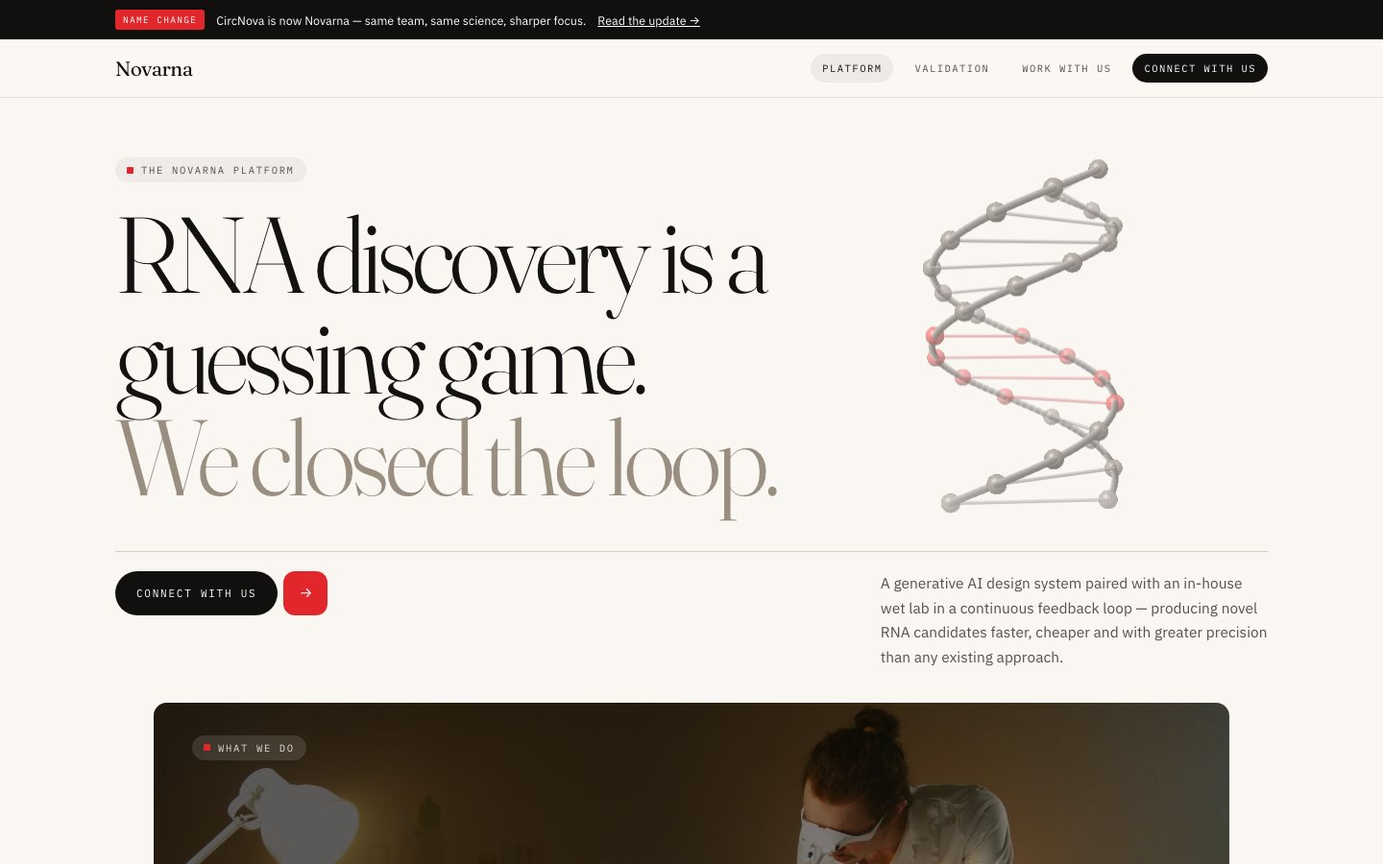
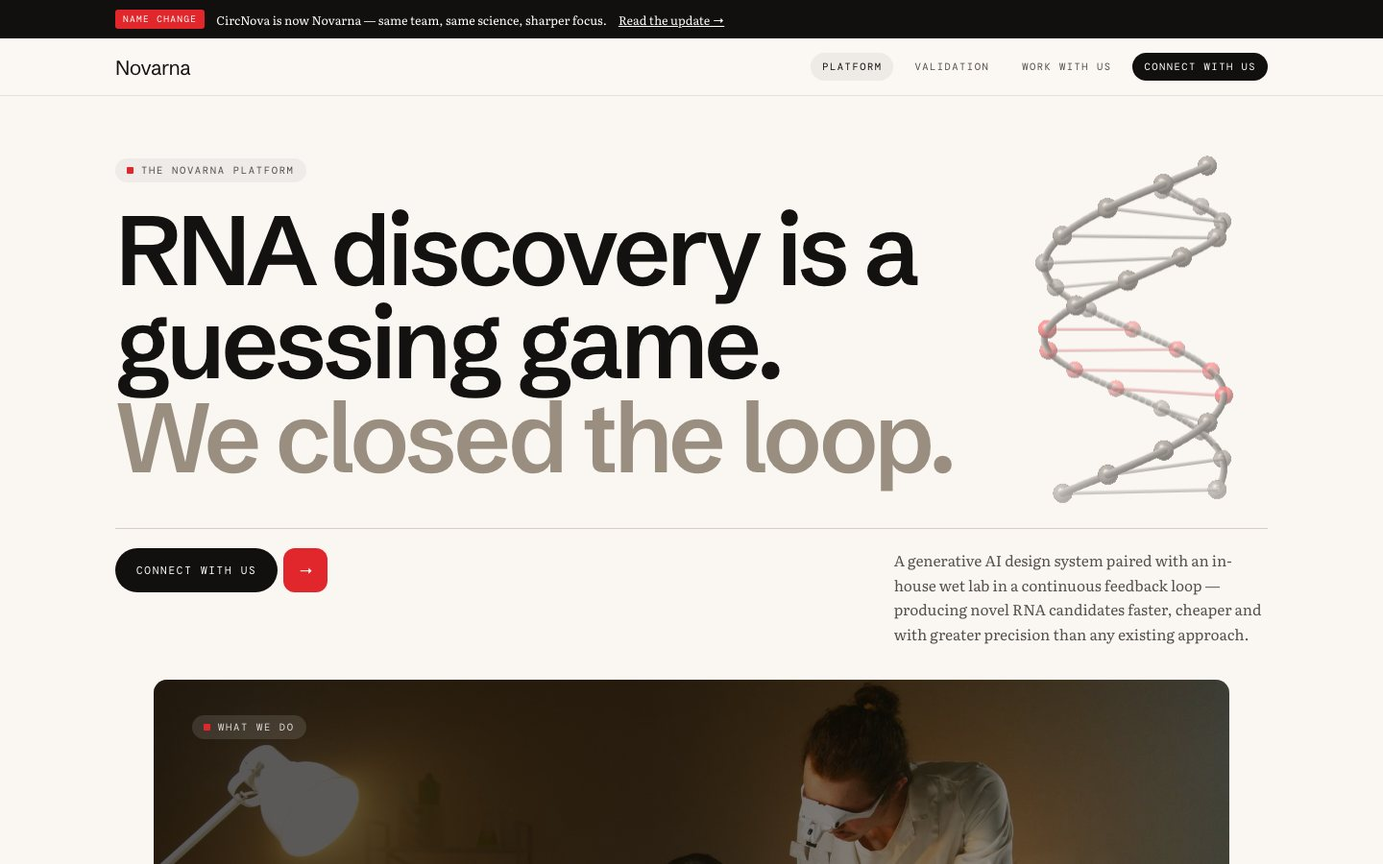
Novarna: get off the template typeface, and say so to the client
Daniel: "looks like you used the same typography that everyone uses for AI
created works." He is right, and checking it made the point sharper than he put
it.

circnova.com genuinely loads Fraunces + Work Sans + JetBrains Mono -- I verified
the computed font-family on their live site rather than trusting my note. So I
had kept Fraunces on the grounds that it was THEIRS. But that stack is itself
the generated-template signature: the design press names "Fraunces / Inter"
explicitly as a template pairing, Inter as the documented AI-slop face ("purple
gradients and Inter"), and Space Grotesk / Space Mono the same way. Being
faithful to the client inherited the problem instead of solving it. A direction
study that preserves the tell is worth less than one that names it.

So: Schibsted Grotesk display, Literata body, DM Mono labels.

The move that matters is dropping the display serif entirely, because that is
where the trap lives -- and because the actual peer set does. IntegratedBio and
the credible AI-bio sites set display in grotesques, not decorative serifs.
Schibsted Grotesk is an editorial grotesque drawn for a Norwegian news group and
has real character in the a, g and R exactly where Inter is deliberately
neutral.

Literata as the BODY face is the uncommon part and the one I would argue for
hardest. A scholarly reading serif set as running text under a sans display
inverts the usual arrangement, and it reads as journal rather than startup --
[…]

diff --git a/concepts/novarna/index.html b/concepts/novarna/index.html
@@ -12,7 +12,7 @@
 <link rel="canonical" href="https://novarna.ai/">
 <link rel="preconnect" href="https://fonts.googleapis.com">
 <link rel="preconnect" href="https://fonts.gstatic.com" crossorigin>
-<link href="https://fonts.googleapis.com/css2?family=Fraunces:ital,opsz,wght@0,9..144,300;0,9..144,400;0,9..144,500;1,9..144,300&family=IBM+Plex+Sans:wght@400;450;500;600&family=IBM+Plex+Mono:wght@400;450;500&display=swap" rel="stylesheet">
+<link href="https://fonts.googleapis.com/css2?family=Schibsted+Grotesk:ital,wght@0,400..900;1,400..700&family=Literata:ital,opsz,wght@0,7..72,300..600;1,7..72,300..500&family=DM+Mono:ital,wght@0,300;0,400;0,500;1,400&display=swap" rel="stylesheet">
 <style>
 /* ---------------------------------------------------------------------------
    Novarna — direction study by LOVELEEDAY Studios. Fourth direction, and the
@@ -49,18 +49,18 @@
 *,*::before,*::after{box-sizing:border-box}
 html{-webkit-text-size-adjust:100%;scroll-behavior:smooth}
 body{margin:0;background:var(--bone);color:var(--ink);overflow-x:hidden;
-  font-family:"IBM Plex Sans",ui-sans-serif,system-ui,sans-serif;
+  font-family:"Literata",Georgia,serif;
   -webkit-font-smoothing:antialiased;-moz-osx-font-smoothing:grayscale}
 img{display:block;max-width:100%;height:auto}
 a{color:inherit}
-h1,h2,h3{margin:0;font-family:"Fraunces",Georgia,serif;font-weight:300;letter-spacing:-.025em}
+h1,h2,h3{margin:0;font-family:"Schibsted Grotesk",ui-sans-serif,system-ui,sans-serif;font-weight:500;letter-spacing:-.038em}
 .wrap{max-width:1280px;margin:0 auto;padding:0 clamp(20px,3.4vw,40px)}
 .tnum{font-variant-numeric:tabular-nums}
 :focus-visible{outline:2px solid var(--red);outline-offset:3px}
 
 /* the pill label with its solid square — IntegratedBio's tell */
 .pill{display:inline-flex;align-items:center;gap:8px;padding:6px 12px;border-radius:999px;
-  background:rgba(20,18,16,.05);font-family:"IBM Plex Mono",ui-monospace,monospace;
+  background:rgba(20,18,16,.05);font-family:"DM Mono",ui-monospace,monospace;
   font-size:10.5px;letter-spacing:.16em;text-transform:uppercase;color:var(--mid)}
 .pill::before{content:"";width:7px;height:7px;background:var(--red);border-radius:1px}
 .pill.on-dark{background:rgba(255,255,255,.12);color:rgba(255,255,255,.82)}
@@ -69,7 +69,7 @@ h1,h2,h3{margin:0;font-family:"Fraunces",Georgia,serif;font-weight:300;letter-sp
 .cta{display:inline-flex;align-items:stretch;gap:6px}
 .cta > a:first-child{display:inline-flex;align-items:center;padding:0 22px;min-height:46px;
   background:var(--deep);color:#fff;border-radius:999px;text-decoration:none;
-  font-family:"IBM Plex Mono",ui-monospace,monospace;font-size:11px;letter-spacing:.16em;text-transform:uppercase}
+  font-family:"DM Mono",ui-monospace,monospace;font-size:11px;letter-spacing:.16em;text-transform:uppercase}
 .cta > a:first-child:hover{background:#2A2420}
 .cta .sq{display:inline-grid;place-items:center;width:46px;min-height:46px;background:var(--red);
   color:#fff;border-radius:12px;text-decoration:none;font-size:15px}
@@ -83,16 +83,16 @@ h1,h2,h3{margin:0;font-family:"Fraunces",Georgia,serif;font-weight:300;letter-sp
 .bar{background:var(--deep);color:#fff;font-size:12.5px}
 .bar-in{max-width:1280px;margin:0 auto;padding:10px clamp(20px,3.4vw,40px);display:flex;gap:12px;
   align-items:center;flex-wrap:wrap}
-.bar .tag{font-family:"IBM Plex Mono",ui-monospace,monospace;font-size:9.5px;letter-spacing:.14em;
+.bar .tag{font-family:"DM Mono",ui-monospace,monospace;font-size:9.5px;letter-spacing:.14em;
   text-transform:uppercase;background:var(--red);padding:4px 8px;border-radius:3px}
 .bar a{color:#fff}
 .nav{position:sticky;top:0;z-index:40;background:rgba(250,247,243,.88);
   backdrop-filter:saturate(1.4) blur(10px);border-bottom:1px solid var(--line)}
 .nav-in{max-width:1280px;margin:0 auto;padding:15px clamp(20px,3.4vw,40px);
   display:flex;align-items:center;gap:24px}
-.brand{font-family:"Fraunces",Georgia,serif;font-size:21px;font-weight:400;letter-spacing:-.025em}
+.brand{font-family:"Schibsted Grotesk",ui-sans-serif,system-ui,sans-serif;font-size:21px;font-weight:400;letter-spacing:-.025em}
 .navlinks{margin-left:auto;display:flex;gap:10px;align-items:center;
-  font-family:"IBM Plex Mono",ui-monospace,monospace;font-size:10.5px;letter-spacing:.14em;text-transform:uppercase}
+  font-family:"DM Mono",ui-monospace,monospace;font-size:10.5px;letter-spacing:.14em;text-transform:uppercase}
 .navlinks a{text-decoration:none;padding:8px 12px;border-radius:999px;color:var(--mid)}
 .navlinks a:hover{background:rgba(20,18,16,.05);color:var(--ink)}
 .navlinks a.on{background:rgba(20,18,16,.06);color:var(--ink)}
@@ -100,7 +100,7 @@ h1,h2,h3{margin:0;font-family:"Fraunces",Georgia,serif;font-weight:300;letter-sp
 
 /* 1 · HERO — enormous two-tone type, copy demoted under a ruled shelf */
 .hero{padding:clamp(40px,4.4vw,62px) 0 0}
-.hero h1{font-size:clamp(2.7rem,8.4vw,7rem);line-height:.94;letter-spacing:-.042em;max-width:15ch}
+.hero h1{font-size:clamp(2.6rem,7.8vw,6.4rem);line-height:.95;letter-spacing:-.045em;max-width:15ch;font-weight:600}
 .hero h1 .t2{color:var(--tint);display:block}
 .shelf{margin-top:clamp(32px,3.4vw,46px);padding-top:20px;border-top:1px solid var(--line-2);
   display:grid;grid-template-columns:auto minmax(0,1fr) minmax(0,42ch);gap:clamp(18px,4vw,48px);
@@ -113,7 +113,7 @@ h1,h2,h3{margin:0;font-family:"Fraunces",Georgia,serif;font-weight:300;letter-sp
 .hero-media .cap{position:absolute;left:clamp(20px,3vw,40px);top:clamp(20px,3vw,34px)}
 .hero-media figcaption{position:absolute;left:clamp(20px,3vw,40px);right:clamp(20px,3vw,40px);
   bottom:clamp(20px,3vw,34px);color:#fff;font-size:clamp(1.15rem,2.4vw,1.95rem);line-height:1.22;
-  font-family:"Fraunces",Georgia,serif;font-weight:300;max-width:24ch;letter-spacing:-.02em}
+  font-family:"Schibsted Grotesk",ui-sans-serif,system-ui,sans-serif;font-weight:300;max-width:24ch;letter-spacing:-.02em}
 .hero-media figcaption em{font-style:italic;color:rgba(255,255,255,.62)}
 
 /* ── MOTION ───────────────────────────────────────────────────
@@ -154,7 +154,7 @@ h1,h2,h3{margin:0;font-family:"Fraunces",Georgia,serif;font-weight:300;letter-sp
   background:var(--paper);padding:11px 0;-webkit-mask-image:linear-gradient(90deg,transparent,#000 9%,#000 91%,transparent);
   mask-image:linear-gradient(90deg,transparent,#000 9%,#000 91%,transparent)}
 .ticker span{display:inline-block;white-space:nowrap;
-  font-family:"IBM Plex Mono",ui-monospace,monospace;font-size:12px;letter-spacing:.42em;
+  font-family:"DM Mono",ui-monospace,monospace;font-size:12px;letter-spacing:.42em;
   color:var(--soft);animation:stream 42s linear infinite;will-change:transform}
 .ticker b{color:var(--red);font-weight:450}
 @keyframes stream{from{transform:translateX(0)}to{transform:translateX(-50%)}}
@@ -166,7 +166,7 @@ h1,h2,h3{margin:0;font-family:"Fraunces",Georgia,serif;font-weight:300;letter-sp
 
 .assay-h{display:flex;justify-content:space-between;gap:12px;padding:0 0 12px;
   border-bottom:1px solid rgba(255,255,255,.14);
-  font-family:"IBM Plex Mono",ui-monospace,monospace;font-size:10.5px;
+  font-family:"DM Mono",ui-monospace,monospace;font-size:10.5px;
   letter-spacing:.15em;text-transform:uppercase;color:rgba(255,255,255,.54)}
 .live-dot{display:inline-block;width:6px;height:6px;border-radius:50%;
   background:var(--red);margin-right:7px;vertical-align:middle;
@@ -187,8 +187,8 @@ h1,h2,h3{margin:0;font-family:"Fraunces",Georgia,serif;font-weight:300;letter-sp
 .nums-grid{margin-top:40px;display:grid;grid-template-columns:repeat(3,1fr);gap:0}
 .n1{padding:0 clamp(16px,2.4vw,34px);border-left:1px solid var(--line-2)}
 .n1:first-child{padding-left:0;border-left:0}
-.n1 .k{font-family:"Fraunces",Georgia,serif;font-size:clamp(3rem,7.4vw,6.4rem);line-height:1;
-  letter-spacing:-.05em;color:var(--red);font-weight:300}
+.n1 .k{font-family:"Schibsted Grotesk",ui-sans-serif,system-ui,sans-serif;font-size:clamp(3rem,7.4vw,6.4rem);line-height:1;
+  letter-spacing:-.055em;color:var(--red);font-weight:500}
 .n1 .l{margin-top:14px;font-size:14.5px;font-weight:600}
 .n1 .s{margin-top:5px;font-size:13px;line-height:1.55;color:var(--soft);max-width:26ch}
 
@@ -203,14 +203,14 @@ h1,h2,h3{margin:0;font-family:"Fraunces",Georgia,serif;font-weight:300;letter-sp
   gap:clamp(14px,3vw,42px);align-items:baseline;padding:clamp(20px,2.6vw,30px) 0;
   border-top:1px solid var(--line-2)}
 .row:last-of-type{border-bottom:1px solid var(--line-2)}
-.row .o{font-family:"Fraunces",Georgia,serif;font-size:clamp(1.5rem,2.8vw,2.2rem);
+.row .o{font-family:"Schibsted Grotesk",ui-sans-serif,system-ui,sans-serif;font-size:clamp(1.5rem,2.8vw,2.2rem);
   line-height:1;color:var(--tint);font-weight:300;font-variant-numeric:tabular-nums}
 .row:last-of-type .o{color:var(--red)}
 .row h3{font-size:clamp(1.25rem,2.4vw,1.85rem);letter-spacing:-.02em;font-weight:400}
 .row p{margin:0;font-size:14.5px;line-height:1.66;color:var(--mid)}
 .moat{margin-top:clamp(28px,4vw,44px);display:grid;
   grid-template-columns:clamp(58px,6vw,96px) minmax(0,58ch);gap:clamp(14px,3vw,42px)}
-.o-lab{font-family:"IBM Plex Mono",ui-monospace,monospace;font-size:10px;letter-spacing:.16em;
+.o-lab{font-family:"DM Mono",ui-monospace,monospace;font-size:10px;letter-spacing:.16em;
   text-transform:uppercase;color:var(--red-d);white-space:nowrap;padding-top:5px}
 .moat p{margin:0;font-size:15.5px;line-height:1.72;color:var(--mid)}
 .moat b{color:var(--ink);font-weight:500}
@@ -242,7 +242,7 @@ h1,h2,h3{margin:0;font-family:"Fraunces",Georgia,serif;font-weight:300;letter-sp
 .as{display:grid;grid-template-columns:44px minmax(0,1fr) auto;gap:18px;align-items:baseline;
   padding:17px 0;border-top:1px solid rgba(255,255,255,.14);font-size:15px}
 .as:last-child{border-bottom:1px solid rgba(255,255,255,.14)}
-.as .m{font-family:"IBM Plex Mono",ui-monospace,monospace;font-size:11.5px;color:rgba(255,255,255,.38)}
+.as .m{font-family:"DM Mono",ui-monospace,monospace;font-size:11.5px;color:rgba(255,255,255,.38)}
 .as .v{font-weight:600;white-space:nowrap;color:#fff}
 .as .v.win{color:#FF6B5A}
 .val .note{margin:clamp(26px,4vw,38px) 0 0;font-size:12.5px;line-height:1.65;
@@ -255,7 +255,7 @@ h1,h2,h3{margin:0;font-family:"Fraunces",Georgia,serif;font-weight:300;letter-sp
 .state-in .over{position:absolute;inset:0;background:linear-gradient(90deg,rgba(12,6,4,.58),rgba(12,6,4,.16))}
 .state-in .cap{position:absolute;left:clamp(20px,3vw,40px);top:clamp(20px,3vw,34px)}
 .state-in blockquote{position:absolute;margin:0;left:clamp(20px,3vw,40px);right:clamp(20px,3vw,40px);
-  bottom:clamp(22px,3.4vw,40px);color:#fff;font-family:"Fraunces",Georgia,serif;font-weight:300;
+  bottom:clamp(22px,3.4vw,40px);color:#fff;font-family:"Schibsted Grotesk",ui-sans-serif,system-ui,sans-serif;font-weight:300;
   font-size:clamp(1.3rem,2.9vw,2.4rem);line-height:1.2;max-width:26ch;letter-spacing:-.02em}
 .state-in blockquote em{font-style:italic;color:rgba(255,255,255,.6)}
 
@@ -270,7 +270,7 @@ h1,h2,h3{margin:0;font-family:"Fraunces",Georgia,serif;font-weight:300;letter-sp
   gap:clamp(14px,3vw,42px);align-items:baseline;padding:clamp(20px,2.4vw,28px) 0;
   border-top:1px solid var(--line-2)}
 .tier:last-of-type{border-bottom:1px solid var(--line-2)}
-.tier .o{font-family:"IBM Plex Mono",ui-monospace,monospace;font-size:11px;color:var(--soft);letter-spacing:.14em}
+.tier .o{font-family:"DM Mono",ui-monospace,monospace;font-size:11px;color:var(--soft);letter-spacing:.14em}
 .tier h3{font-size:clamp(1.05rem,1.9vw,1.4rem);font-weight:400;letter-spacing:-.015em}
 .tier p{margin:0;font-size:14.5px;line-height:1.65;color:var(--mid)}
 
@@ -284,15 +284,15 @@ h1,h2,h3{margin:0;font-family:"Fraunces",Georgia,serif;font-weight:300;letter-sp
   align-items:start}
 .foot-top h2{font-size:clamp(1.35rem,2.7vw,2.1rem);line-height:1.16;color:#fff;max-width:22ch}
 .foot-nav{display:grid;gap:9px;font-size:13.5px}
-.foot-nav .h{font-family:"IBM Plex Mono",ui-monospace,monospace;font-size:10px;letter-spacing:.17em;
+.foot-nav .h{font-family:"DM Mono",ui-monospace,monospace;font-size:10px;letter-spacing:.17em;
   text-transform:uppercase;color:rgba(255,255,255,.5);margin-bottom:5px}
 .foot-nav a{color:rgba(255,255,255,.88);text-decoration:none}
 .foot-nav a:hover{text-decoration:underline}
-.wordmark{margin:clamp(38px,6vw,72px) 0 0;font-family:"Fraunces",Georgia,serif;font-weight:300;
+.wordmark{margin:clamp(38px,6vw,72px) 0 0;font-family:"Schibsted Grotesk",ui-sans-serif,system-ui,sans-serif;font-weight:300;
   font-size:clamp(3.4rem,15.6vw,13rem);line-height:.82;letter-spacing:-.055em;color:#fff;
   display:block;user-select:none}
 .foot-legal{position:relative;display:flex;flex-wrap:wrap;gap:12px;justify-content:space-between;
-  padding:22px clamp(20px,3.4vw,44px) 26px;font-family:"IBM Plex Mono",ui-monospace,monospace;font-size:10px;
+  padding:22px clamp(20px,3.4vw,44px) 26px;font-family:"DM Mono",ui-monospace,monospace;font-size:10px;
   letter-spacing:.13em;text-transform:uppercase;color:rgba(255,255,255,.55)}
 
 @media (max-width:980px){
@@ -644,8 +644,8 @@ h1,h2,h3{margin:0;font-family:"Fraunces",Georgia,serif;font-weight:300;letter-sp
       var turns = BP * TWIST / (2 * Math.PI);
       rise = (H * 0.70) / BP;
       R    = rise * BP / turns * (23 / 30.8) / 2;   // hold the true 23:30.8 ratio
-      R    = Math.min(R, W * 0.19);
-      ox   = W * 0.74; oy = H / 2;
+      R    = Math.min(R, W * 0.155);
+      ox   = W * 0.82; oy = H / 2;
       CAM  = R * 9.5;                                 // gentle perspective
       computeAO();
       if (!scat.length) for (var i = 0; i < BP * 2; i++)
@@ -774,7 +774,7 @@ h1,h2,h3{margin:0;font-family:"Fraunces",Georgia,serif;font-weight:300;letter-sp
           if (depth > 0.5 && it.k > 0.9) {
             ctx.globalAlpha = (depth - 0.5) / 0.5 * 0.9;
             ctx.fillStyle = 'rgba(250,247,243,.95)';
-            ctx.font = '500 ' + (8.6 * it.p.s).toFixed(1) + 'px "IBM Plex Mono", ui-monospace, monospace';
+            ctx.font = '500 ' + (8.6 * it.p.s).toFixed(1) + 'px "DM Mono", ui-monospace, monospace';
             ctx.textAlign = 'center'; ctx.textBaseline = 'middle';
             ctx.fillText(it.ch, it.p.x, it.p.y);
           }

diff --git a/public/portal/novarna/index.html b/public/portal/novarna/index.html
@@ -12,7 +12,7 @@
 <link rel="canonical" href="https://novarna.ai/">
 <link rel="preconnect" href="https://fonts.googleapis.com">
 <link rel="preconnect" href="https://fonts.gstatic.com" crossorigin>
-<link href="https://fonts.googleapis.com/css2?family=Fraunces:ital,opsz,wght@0,9..144,300;0,9..144,400;0,9..144,500;1,9..144,300&family=IBM+Plex+Sans:wght@400;450;500;600&family=IBM+Plex+Mono:wght@400;450;500&display=swap" rel="stylesheet">
+<link href="https://fonts.googleapis.com/css2?family=Schibsted+Grotesk:ital,wght@0,400..900;1,400..700&family=Literata:ital,opsz,wght@0,7..72,300..600;1,7..72,300..500&family=DM+Mono:ital,wght@0,300;0,400;0,500;1,400&display=swap" rel="stylesheet">
 <style>
 /* ---------------------------------------------------------------------------
    Novarna — direction study by LOVELEEDAY Studios. Fourth direction, and the
@@ -49,18 +49,18 @@
 *,*::before,*::after{box-sizing:border-box}
 html{-webkit-text-size-adjust:100%;scroll-behavior:smooth}
 body{margin:0;background:var(--bone);color:var(--ink);overflow-x:hidden;
-  font-family:"IBM Plex Sans",ui-sans-serif,system-ui,sans-serif;
+  font-family:"Literata",Georgia,serif;
   -webkit-font-smoothing:antialiased;-moz-osx-font-smoothing:grayscale}
 img{display:block;max-width:100%;height:auto}
 a{color:inherit}
-h1,h2,h3{margin:0;font-family:"Fraunces",Georgia,serif;font-weight:300;letter-spacing:-.025em}
+h1,h2,h3{margin:0;font-family:"Schibsted Grotesk",ui-sans-serif,system-ui,sans-serif;font-weight:500;letter-spacing:-.038em}
 .wrap{max-width:1280px;margin:0 auto;padding:0 clamp(20px,3.4vw,40px)}
 .tnum{font-variant-numeric:tabular-nums}
 :focus-visible{outline:2px solid var(--red);outline-offset:3px}
 
 /* the pill label with its solid square — IntegratedBio's tell */
 .pill{display:inline-flex;align-items:center;gap:8px;padding:6px 12px;border-radius:999px;
-  background:rgba(20,18,16,.05);font-family:"IBM Plex Mono",ui-monospace,monospace;
+  background:rgba(20,18,16,.05);font-family:"DM Mono",ui-monospace,monospace;
   font-size:10.5px;letter-spacing:.16em;text-transform:uppercase;color:var(--mid)}
 .pill::before{content:"";width:7px;height:7px;background:var(--red);border-radius:1px}
 .pill.on-dark{background:rgba(255,255,255,.12);color:rgba(255,255,255,.82)}
@@ -69,7 +69,7 @@ h1,h2,h3{margin:0;font-family:"Fraunces",Georgia,serif;font-weight:300;letter-sp
 .cta{display:inline-flex;align-items:stretch;gap:6px}
 .cta > a:first-child{display:inline-flex;align-items:center;padding:0 22px;min-height:46px;
   background:var(--deep);color:#fff;border-radius:999px;text-decoration:none;
-  font-family:"IBM Plex Mono",ui-monospace,monospace;font-size:11px;letter-spacing:.16em;text-transform:uppercase}
+  font-family:"DM Mono",ui-monospace,monospace;font-size:11px;letter-spacing:.16em;text-transform:uppercase}
 .cta > a:first-child:hover{background:#2A2420}
 .cta .sq{display:inline-grid;place-items:center;width:46px;min-height:46px;background:var(--red);
   color:#fff;border-radius:12px;text-decoration:none;font-size:15px}
@@ -83,16 +83,16 @@ h1,h2,h3{margin:0;font-family:"Fraunces",Georgia,serif;font-weight:300;letter-sp
 .bar{background:var(--deep);color:#fff;font-size:12.5px}
 .bar-in{max-width:1280px;margin:0 auto;padding:10px clamp(20px,3.4vw,40px);display:flex;gap:12px;
   align-items:center;flex-wrap:wrap}
-.bar .tag{font-family:"IBM Plex Mono",ui-monospace,monospace;font-size:9.5px;letter-spacing:.14em;
+.bar .tag{font-family:"DM Mono",ui-monospace,monospace;font-size:9.5px;letter-spacing:.14em;
   text-transform:uppercase;background:var(--red);padding:4px 8px;border-radius:3px}
 .bar a{color:#fff}
 .nav{position:sticky;top:0;z-index:40;background:rgba(250,247,243,.88);
   backdrop-filter:saturate(1.4) blur(10px);border-bottom:1px solid var(--line)}
 .nav-in{max-width:1280px;margin:0 auto;padding:15px clamp(20px,3.4vw,40px);
   display:flex;align-items:center;gap:24px}
-.brand{font-family:"Fraunces",Georgia,serif;font-size:21px;font-weight:400;letter-spacing:-.025em}
+.brand{font-family:"Schibsted Grotesk",ui-sans-serif,system-ui,sans-serif;font-size:21px;font-weight:400;letter-spacing:-.025em}
 .navlinks{margin-left:auto;display:flex;gap:10px;align-items:center;
-  font-family:"IBM Plex Mono",ui-monospace,monospace;font-size:10.5px;letter-spacing:.14em;text-transform:uppercase}
+  font-family:"DM Mono",ui-monospace,monospace;font-size:10.5px;letter-spacing:.14em;text-transform:uppercase}
 .navlinks a{text-decoration:none;padding:8px 12px;border-radius:999px;color:var(--mid)}
 .navlinks a:hover{background:rgba(20,18,16,.05);color:var(--ink)}
 .navlinks a.on{background:rgba(20,18,16,.06);color:var(--ink)}
@@ -100,7 +100,7 @@ h1,h2,h3{margin:0;font-family:"Fraunces",Georgia,serif;font-weight:300;letter-sp
 
 /* 1 · HERO — enormous two-tone type, copy demoted under a ruled shelf */
 .hero{padding:clamp(40px,4.4vw,62px) 0 0}
-.hero h1{font-size:clamp(2.7rem,8.4vw,7rem);line-height:.94;letter-spacing:-.042em;max-width:15ch}
+.hero h1{font-size:clamp(2.6rem,7.8vw,6.4rem);line-height:.95;letter-spacing:-.045em;max-width:15ch;font-weight:600}
 .hero h1 .t2{color:var(--tint);display:block}
 .shelf{margin-top:clamp(32px,3.4vw,46px);padding-top:20px;border-top:1px solid var(--line-2);
   display:grid;grid-template-columns:auto minmax(0,1fr) minmax(0,42ch);gap:clamp(18px,4vw,48px);
@@ -113,7 +113,7 @@ h1,h2,h3{margin:0;font-family:"Fraunces",Georgia,serif;font-weight:300;letter-sp
 .hero-media .cap{position:absolute;left:clamp(20px,3vw,40px);top:clamp(20px,3vw,34px)}
 .hero-media figcaption{position:absolute;left:clamp(20px,3vw,40px);right:clamp(20px,3vw,40px);
   bottom:clamp(20px,3vw,34px);color:#fff;font-size:clamp(1.15rem,2.4vw,1.95rem);line-height:1.22;
-  font-family:"Fraunces",Georgia,serif;font-weight:300;max-width:24ch;letter-spacing:-.02em}
+  font-family:"Schibsted Grotesk",ui-sans-serif,system-ui,sans-serif;font-weight:300;max-width:24ch;letter-spacing:-.02em}
 .hero-media figcaption em{font-style:italic;color:rgba(255,255,255,.62)}
 
 /* ── MOTION ───────────────────────────────────────────────────
@@ -154,7 +154,7 @@ h1,h2,h3{margin:0;font-family:"Fraunces",Georgia,serif;font-weight:300;letter-sp
   background:var(--paper);padding:11px 0;-webkit-mask-image:linear-gradient(90deg,transparent,#000 9%,#000 91%,transparent);
   mask-image:linear-gradient(90deg,transparent,#000 9%,#000 91%,transparent)}
 .ticker span{display:inline-block;white-space:nowrap;
-  font-family:"IBM Plex Mono",ui-monospace,monospace;font-size:12px;letter-spacing:.42em;
+  font-family:"DM Mono",ui-monospace,monospace;font-size:12px;letter-spacing:.42em;
   color:var(--soft);animation:stream 42s linear infinite;will-change:transform}
 .ticker b{color:var(--red);font-weight:450}
 @keyframes stream{from{transform:translateX(0)}to{transform:translateX(-50%)}}
@@ -166,7 +166,7 @@ h1,h2,h3{margin:0;font-family:"Fraunces",Georgia,serif;font-weight:300;letter-sp
 
 .assay-h{display:flex;justify-content:space-between;gap:12px;padding:0 0 12px;
   border-bottom:1px solid rgba(255,255,255,.14);
-  font-family:"IBM Plex Mono",ui-monospace,monospace;font-size:10.5px;
+  font-family:"DM Mono",ui-monospace,monospace;font-size:10.5px;
   letter-spacing:.15em;text-transform:uppercase;color:rgba(255,255,255,.54)}
 .live-dot{display:inline-block;width:6px;height:6px;border-radius:50%;
   background:var(--red);margin-right:7px;vertical-align:middle;
@@ -187,8 +187,8 @@ h1,h2,h3{margin:0;font-family:"Fraunces",Georgia,serif;font-weight:300;letter-sp
 .nums-grid{margin-top:40px;display:grid;grid-template-columns:repeat(3,1fr);gap:0}
 .n1{padding:0 clamp(16px,2.4vw,34px);border-left:1px solid var(--line-2)}
 .n1:first-child{padding-left:0;border-left:0}
-.n1 .k{font-family:"Fraunces",Georgia,serif;font-size:clamp(3rem,7.4vw,6.4rem);line-height:1;
-  letter-spacing:-.05em;color:var(--red);font-weight:300}
+.n1 .k{font-family:"Schibsted Grotesk",ui-sans-serif,system-ui,sans-serif;font-size:clamp(3rem,7.4vw,6.4rem);line-height:1;
+  letter-spacing:-.055em;color:var(--red);font-weight:500}
 .n1 .l{margin-top:14px;font-size:14.5px;font-weight:600}
 .n1 .s{margin-top:5px;font-size:13px;line-height:1.55;color:var(--soft);max-width:26ch}
 
@@ -203,14 +203,14 @@ h1,h2,h3{margin:0;font-family:"Fraunces",Georgia,serif;font-weight:300;letter-sp
   gap:clamp(14px,3vw,42px);align-items:baseline;padding:clamp(20px,2.6vw,30px) 0;
   border-top:1px solid var(--line-2)}
 .row:last-of-type{border-bottom:1px solid var(--line-2)}
-.row .o{font-family:"Fraunces",Georgia,serif;font-size:clamp(1.5rem,2.8vw,2.2rem);
+.row .o{font-family:"Schibsted Grotesk",ui-sans-serif,system-ui,sans-serif;font-size:clamp(1.5rem,2.8vw,2.2rem);
   line-height:1;color:var(--tint);font-weight:300;font-variant-numeric:tabular-nums}
 .row:last-of-type .o{color:var(--red)}
 .row h3{font-size:clamp(1.25rem,2.4vw,1.85rem);letter-spacing:-.02em;font-weight:400}
 .row p{margin:0;font-size:14.5px;line-height:1.66;color:var(--mid)}
 .moat{margin-top:clamp(28px,4vw,44px);display:grid;
   grid-template-columns:clamp(58px,6vw,96px) minmax(0,58ch);gap:clamp(14px,3vw,42px)}
-.o-lab{font-family:"IBM Plex Mono",ui-monospace,monospace;font-size:10px;letter-spacing:.16em;
+.o-lab{font-family:"DM Mono",ui-monospace,monospace;font-size:10px;letter-spacing:.16em;
   text-transform:uppercase;color:var(--red-d);white-space:nowrap;padding-top:5px}
 .moat p{margin:0;font-size:15.5px;line-height:1.72;color:var(--mid)}
 .moat b{color:var(--ink);font-weight:500}
@@ -242,7 +242,7 @@ h1,h2,h3{margin:0;font-family:"Fraunces",Georgia,serif;font-weight:300;letter-sp
 .as{display:grid;grid-template-columns:44px minmax(0,1fr) auto;gap:18px;align-items:baseline;
   padding:17px 0;border-top:1px solid rgba(255,255,255,.14);font-size:15px}
 .as:last-child{border-bottom:1px solid rgba(255,255,255,.14)}
-.as .m{font-family:"IBM Plex Mono",ui-monospace,monospace;font-size:11.5px;color:rgba(255,255,255,.38)}
+.as .m{font-family:"DM Mono",ui-monospace,monospace;font-size:11.5px;color:rgba(255,255,255,.38)}
 .as .v{font-weight:600;white-space:nowrap;color:#fff}
 .as .v.win{color:#FF6B5A}
 .val .note{margin:clamp(26px,4vw,38px) 0 0;font-size:12.5px;line-height:1.65;
@@ -255,7 +255,7 @@ h1,h2,h3{margin:0;font-family:"Fraunces",Georgia,serif;font-weight:300;letter-sp
 .state-in .over{position:absolute;inset:0;background:linear-gradient(90deg,rgba(12,6,4,.58),rgba(12,6,4,.16))}
 .state-in .cap{position:absolute;left:clamp(20px,3vw,40px);top:clamp(20px,3vw,34px)}
 .state-in blockquote{position:absolute;margin:0;left:clamp(20px,3vw,40px);right:clamp(20px,3vw,40px);
-  bottom:clamp(22px,3.4vw,40px);color:#fff;font-family:"Fraunces",Georgia,serif;font-weight:300;
+  bottom:clamp(22px,3.4vw,40px);color:#fff;font-family:"Schibsted Grotesk",ui-sans-serif,system-ui,sans-serif;font-weight:300;
   font-size:clamp(1.3rem,2.9vw,2.4rem);line-height:1.2;max-width:26ch;letter-spacing:-.02em}
 .state-in blockquote em{font-style:italic;color:rgba(255,255,255,.6)}
 
@@ -270,7 +270,7 @@ h1,h2,h3{margin:0;font-family:"Fraunces",Georgia,serif;font-weight:300;letter-sp
   gap:clamp(14px,3vw,42px);align-items:baseline;padding:clamp(20px,2.4vw,28px) 0;
   border-top:1px solid var(--line-2)}
 .tier:last-of-type{border-bottom:1px solid var(--line-2)}
-.tier .o{font-family:"IBM Plex Mono",ui-monospace,monospace;font-size:11px;color:var(--soft);letter-spacing:.14em}
+.tier .o{font-family:"DM Mono",ui-monospace,monospace;font-size:11px;color:var(--soft);letter-spacing:.14em}
 .tier h3{font-size:clamp(1.05rem,1.9vw,1.4rem);font-weight:400;letter-spacing:-.015em}
 .tier p{margin:0;font-size:14.5px;line-height:1.65;color:var(--mid)}
 
@@ -284,15 +284,15 @@ h1,h2,h3{margin:0;font-family:"Fraunces",Georgia,serif;font-weight:300;letter-sp
   align-items:start}
 .foot-top h2{font-size:clamp(1.35rem,2.7vw,2.1rem);line-height:1.16;color:#fff;max-width:22ch}
 .foot-nav{display:grid;gap:9px;font-size:13.5px}
-.foot-nav .h{font-family:"IBM Plex Mono",ui-monospace,monospace;font-size:10px;letter-spacing:.17em;
+.foot-nav .h{font-family:"DM Mono",ui-monospace,monospace;font-size:10px;letter-spacing:.17em;
   text-transform:uppercase;color:rgba(255,255,255,.5);margin-bottom:5px}
 .foot-nav a{color:rgba(255,255,255,.88);text-decoration:none}
 .foot-nav a:hover{text-decoration:underline}
-.wordmark{margin:clamp(38px,6vw,72px) 0 0;font-family:"Fraunces",Georgia,serif;font-weight:300;
+.wordmark{margin:clamp(38px,6vw,72px) 0 0;font-family:"Schibsted Grotesk",ui-sans-serif,system-ui,sans-serif;font-weight:300;
   font-size:clamp(3.4rem,15.6vw,13rem);line-height:.82;letter-spacing:-.055em;color:#fff;
   display:block;user-select:none}
 .foot-legal{position:relative;display:flex;flex-wrap:wrap;gap:12px;justify-content:space-between;
-  padding:22px clamp(20px,3.4vw,44px) 26px;font-family:"IBM Plex Mono",ui-monospace,monospace;font-size:10px;
+  padding:22px clamp(20px,3.4vw,44px) 26px;font-family:"DM Mono",ui-monospace,monospace;font-size:10px;
   letter-spacing:.13em;text-transform:uppercase;color:rgba(255,255,255,.55)}
 
 @media (max-width:980px){
@@ -644,8 +644,8 @@ h1,h2,h3{margin:0;font-family:"Fraunces",Georgia,serif;font-weight:300;letter-sp
       var turns = BP * TWIST / (2 * Math.PI);
       rise = (H * 0.70) / BP;
       R    = rise * BP / turns * (23 / 30.8) / 2;   // hold the true 23:30.8 ratio
-      R    = Math.min(R, W * 0.19);
-      ox   = W * 0.74; oy = H / 2;
+      R    = Math.min(R, W * 0.155);
+      ox   = W * 0.82; oy = H / 2;
       CAM  = R * 9.5;                                 // gentle perspective
       computeAO();
       if (!scat.length) for (var i = 0; i < BP * 2; i++)
@@ -774,7 +774,7 @@ h1,h2,h3{margin:0;font-family:"Fraunces",Georgia,serif;font-weight:300;letter-sp
           if (depth > 0.5 && it.k > 0.9) {
             ctx.globalAlpha = (depth - 0.5) / 0.5 * 0.9;
             ctx.fillStyle = 'rgba(250,247,243,.95)';
-            ctx.font = '500 ' + (8.6 * it.p.s).toFixed(1) + 'px "IBM Plex Mono", ui-monospace, monospace';
+            ctx.font = '500 ' + (8.6 * it.p.s).toFixed(1) + 'px "DM Mono", ui-monospace, monospace';
             ctx.textAlign = 'center'; ctx.textBaseline = 'middle';
             ctx.fillText(it.ch, it.p.x, it.p.y);
           }
